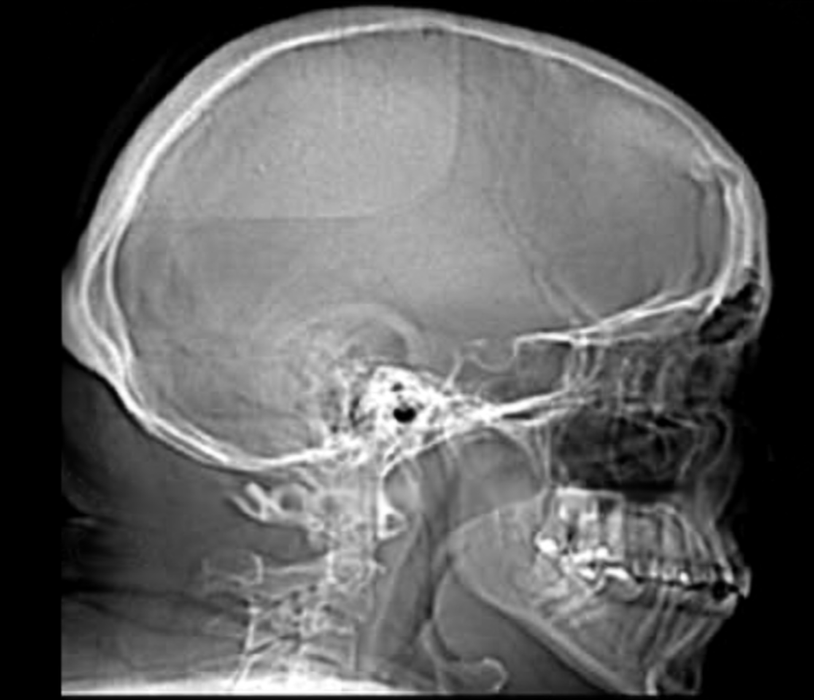
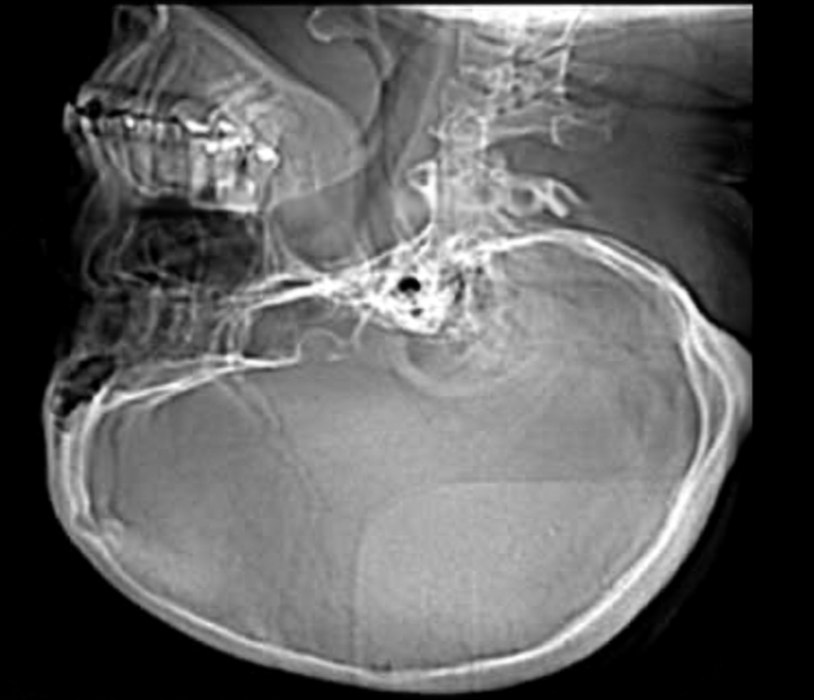
Topograma horizontal correto (vértice à esquerda, anti-horário; anatomia confirmada), direções/MOVER remapeados, relatório só por botão, contador de aquisição destacado, quiz removido

diff --git a/script.js b/script.js
@@ -2150,7 +2150,7 @@
     if (!box || !img || !slider || !startBtn) return;
 
     var BASE = "assets/volumes/cranio/";
-    var REV = "20260712c"; // bump ao trocar assets — quebra cache do GitHub Pages
+    var REV = "20260712d"; // bump ao trocar assets — quebra cache do GitHub Pages
     function bust(path) { return BASE + path + (path.indexOf("?") < 0 ? "?v=" + REV : "&v=" + REV); }
     var manifest = null;
     var loaded = false;
@@ -2166,12 +2166,14 @@
     var ROT_S = 1.0;         // tempo de rotação do gantry (s/volta) no helicoidal
 
     // Caixa de planejamento (%). Zonas-alvo recalibradas para o topograma
-    // HORIZONTAL (decúbito dorsal: face p/ CIMA, vértice à DIREITA, base à
-    // esquerda). Faixa CC = linhas verticais (left/right); FOV A-P =
-    // horizontais (top/bottom). Didáticas — validação clínica do usuário.
-    var DEFAULT_BOX = { top: 6, bottom: 58, left: 34, right: 93 };
-    var boxState = { top: 6, bottom: 58, left: 34, right: 93 };
-    var TARGET = { top: [0, 16], bottom: [46, 70], left: [24, 44], right: [82, 98] };
+    // HORIZONTAL correto (decúbito dorsal: face p/ CIMA, VÉRTICE à ESQUERDA,
+    // base à direita — rotação anti-horária do original, confirmada pela
+    // posição dos dentes/mandíbula). Faixa CC = linhas verticais
+    // (esquerda=vértice, direita=base); FOV A-P = horizontais.
+    // Didáticas — validação clínica do usuário.
+    var DEFAULT_BOX = { top: 42, bottom: 94, left: 7, right: 66 };
+    var boxState = { top: 42, bottom: 94, left: 7, right: 66 };
+    var TARGET = { top: [30, 54], bottom: [84, 100], left: [2, 18], right: [56, 76] };
     var MIN_GAP = 6; // % mínimo entre linhas opostas
     var lastSlice = 0; // último corte pintado na aquisição (p/ review)
     var lastAcq = null; // parâmetros da última aquisição (p/ relatório)
@@ -2189,17 +2191,19 @@
     var isMoving = false; // MOVER em andamento
 
     // Posição (m) da mesa correspondente ao INÍCIO da faixa planejada.
-    // Mapa imagem→mesa: fração x da imagem (0=esquerda/base, 1=direita/
-    // vértice); caudo-cranial varre esquerda→direita com a mesa saindo;
-    // crânio-caudal varre direita→esquerda com a mesa entrando.
+    // Mapa imagem→mesa: fração x da imagem (0=esquerda/VÉRTICE, 1=direita/
+    // base). Caudo-cranial: mesa SAI, varredura base→vértice (imagem revela
+    // direita→esquerda; f = 1−k). Crânio-caudal: mesa ENTRA, vértice→base
+    // (f = k). O início da faixa é a extremidade correspondente.
     function volumeStartZ() {
       if (!topoRef) return null;
       var L = TOPO_LEN_MM / 1000;
       if (topoRef.dir === "craniocaudal") {
-        var k0 = 1 - (boxState.right / 100); // progresso até o vértice planejado
+        var k0 = boxState.left / 100;             // até o vértice planejado
         return topoRef.startZ - L * k0;
       }
-      return topoRef.startZ + L * (boxState.left / 100); // até a base planejada
+      var k0c = 1 - (boxState.right / 100);       // até a base planejada
+      return topoRef.startZ + L * k0c;
     }
 
     // Ajusta o topograma para caber no quadrante preservando a proporção
@@ -2321,9 +2325,9 @@
     function inZone(v, z) { return v >= z[0] && v <= z[1]; }
     function problems() {
       var p = [];
-      if (boxState.right - boxState.left < MIN_GAP) p.push("A faixa está invertida ou muito estreita (base à esquerda, vértice à direita).");
-      else if (!inZone(boxState.left, TARGET.left)) p.push("Leve o limite esquerdo até a base do crânio.");
-      else if (!inZone(boxState.right, TARGET.right)) p.push("Leve o limite direito até o vértice.");
+      if (boxState.right - boxState.left < MIN_GAP) p.push("A faixa está invertida ou muito estreita (vértice à esquerda, base à direita).");
+      else if (!inZone(boxState.left, TARGET.left)) p.push("Leve o limite esquerdo até o vértice.");
+      else if (!inZone(boxState.right, TARGET.right)) p.push("Leve o limite direito até a base do crânio.");
       if (boxState.bottom - boxState.top < MIN_GAP) p.push("O FOV está invertido ou muito estreito.");
       else if (!inZone(boxState.top, TARGET.top) || !inZone(boxState.bottom, TARGET.bottom)) p.push("Ajuste o FOV para cobrir o crânio (anterior/posterior).");
       return p;
@@ -2403,6 +2407,7 @@
     }
     function toIdle() {
       phase = "idle"; loaded = false; lastSlice = 0; lastAcq = null;
+      if (ctrl) ctrl.classList.remove("is-acquiring");
       announcePhase("idle");
       topoRef = null; atStart = false; isMoving = false;
       stopAnimations();
@@ -2422,15 +2427,16 @@
 
     // Topograma com física real: tubo ESTACIONÁRIO, a MESA translada o
     // paciente pelo gantry e a imagem se revela linha a linha em sincronia
-    // com a posição real da mesa 3D. A direção vem do protocolo:
-    //   caudo-cranial → mesa SAI (revela da base, à esquerda, p/ o vértice)
-    //   crânio-caudal → mesa ENTRA (revela do vértice, à direita, p/ a base)
+    // com a posição real da mesa 3D. Orientação: VÉRTICE à esquerda, base
+    // à direita. Direção do protocolo:
+    //   caudo-cranial → mesa SAI (revela da base, à DIREITA, p/ o vértice)
+    //   crânio-caudal → mesa ENTRA (revela do vértice, à ESQUERDA, p/ a base)
     function setTopoClip(k) {
       var pct = ((1 - k) * 100).toFixed(2);
       var pp = protocolParams();
       topoImg.style.clipPath = (pp.direcao === "craniocaudal")
-        ? "inset(0 0 0 " + pct + "%)"
-        : "inset(0 " + pct + "% 0 0)";
+        ? "inset(0 " + pct + "% 0 0)"
+        : "inset(0 0 0 " + pct + "%)";
     }
     function toTopoAcq() {
       phase = "topoAcq";
@@ -2490,6 +2496,7 @@
 
     function toPlan(keepBox) {
       phase = "plan";
+      if (ctrl) ctrl.classList.remove("is-acquiring");
       announcePhase("plan");
       topoImg.style.clipPath = "";
       if (topoBox) topoBox.hidden = false;
@@ -2623,9 +2630,10 @@
         lastSlice = n;
         img.src = srcFor(n);
         slider.value = n;
-        counter.textContent = "Adquirindo… corte " + (idx + 1) + " / " + total +
+        counter.textContent = "ADQUIRINDO — corte " + (idx + 1) + " / " + total +
           " · mesa a " + Math.round(speed) + " mm/s";
       }
+      if (ctrl) ctrl.classList.add("is-acquiring");
       paintProg(0);
       soundStart("vol", ROT_S);
       if (tableDriveApi) {
@@ -2665,10 +2673,13 @@
 
     function toReview() {
       phase = "review";
+      if (ctrl) ctrl.classList.remove("is-acquiring");
       announcePhase("review");
       buildReport();
-      if (reportEl) reportEl.hidden = false;
-      if (reportBtn) reportBtn.hidden = false; loaded = true;
+      // O relatório NÃO cobre a imagem automaticamente — foco no exame;
+      // fica disponível no botão destacado.
+      if (reportEl) reportEl.hidden = true;
+      if (reportBtn) { reportBtn.hidden = false; reportBtn.classList.add("ws-btn--primary"); } loaded = true;
       slider.disabled = false;
       startBtn.disabled = true; startBtn.textContent = "Exame adquirido";
       if (stopBtn) stopBtn.disabled = false;
@@ -2754,30 +2765,6 @@
       if (!reportEl) return;
       if (reportEl.hidden) buildReport();
       reportEl.hidden = !reportEl.hidden;
-    });
-    var quizBtn = document.getElementById("ws-quiz-check");
-    var quizRes = document.getElementById("ws-quiz-result");
-    if (quizBtn) quizBtn.addEventListener("click", function () {
-      var hits = 0, answered = 0;
-      ["q1", "q2", "q3"].forEach(function (q) {
-        var inputs = document.querySelectorAll('input[name="' + q + '"]');
-        Array.prototype.forEach.call(inputs, function (inp) {
-          var lab = inp.closest ? inp.closest("label") : null;
-          if (lab) lab.classList.remove("q-ok", "q-bad");
-        });
-        Array.prototype.forEach.call(inputs, function (inp) {
-          var lab = inp.closest ? inp.closest("label") : null;
-          if (inp.checked) {
-            answered++;
-            var ok = inp.hasAttribute("data-ok");
-            if (ok) hits++;
-            if (lab) lab.classList.add(ok ? "q-ok" : "q-bad");
-          } else if (inp.hasAttribute("data-ok") && lab) {
-            lab.classList.add("q-ok"); // mostra a correta
-          }
-        });
-      });
-      if (quizRes) quizRes.textContent = answered === 0 ? "Responda antes de corrigir." : hits + " / 3 corretas";
     });
     topoImg.addEventListener("load", fitTopo);
     window.addEventListener("resize", fitTopo);

diff --git a/index.html b/index.html
@@ -170,8 +170,8 @@
               <div class="ws-topo__rect" id="ws-topo-rect"></div>
               <div class="ws-topo__line ws-topo__line--h ws-topo__line--fov" id="ws-topo-top" data-edge="top" title="FOV — limite anterior"></div>
               <div class="ws-topo__line ws-topo__line--h ws-topo__line--fov" id="ws-topo-bottom" data-edge="bottom" title="FOV — limite posterior"></div>
-              <div class="ws-topo__line ws-topo__line--v ws-topo__line--range" id="ws-topo-left" data-edge="left" title="Limite da faixa — base do crânio"></div>
-              <div class="ws-topo__line ws-topo__line--v ws-topo__line--range" id="ws-topo-right" data-edge="right" title="Limite da faixa — vértice"></div>
+              <div class="ws-topo__line ws-topo__line--v ws-topo__line--range" id="ws-topo-left" data-edge="left" title="Limite da faixa — vértice"></div>
+              <div class="ws-topo__line ws-topo__line--v ws-topo__line--range" id="ws-topo-right" data-edge="right" title="Limite da faixa — base do crânio"></div>
             </div>
           </div>
           <span class="ws-viewer__placeholder" id="ws-viewer-placeholder">Exame não iniciado</span>
@@ -184,25 +184,7 @@
           <div class="ws-report" id="ws-report" hidden>
             <h3 class="ws-report__title">Relatório do exame — didático</h3>
             <div class="ws-report__body" id="ws-report-body"></div>
-            <div class="ws-quiz" id="ws-quiz">
-              <h4 class="ws-quiz__title">Fixação rápida</h4>
-              <ol class="ws-quiz__list">
-                <li>Laser posicionado no queixo para exame de crânio — qual direção programar?
-                  <label><input type="radio" name="q1" value="a"> Crânio-caudal (mesa entra)</label>
-                  <label><input type="radio" name="q1" value="b" data-ok="1"> Caudo-cranial (mesa sai)</label>
-                </li>
-                <li>Durante o topograma (scout), o que se move?
-                  <label><input type="radio" name="q2" value="a" data-ok="1"> A mesa translada o paciente; o tubo fica estacionário</label>
-                  <label><input type="radio" name="q2" value="b"> O gantry gira com a mesa parada</label>
-                </li>
-                <li>No modo helicoidal, a velocidade da mesa é:
-                  <label><input type="radio" name="q3" value="a"> kV × mAs</label>
-                  <label><input type="radio" name="q3" value="b" data-ok="1"> pitch × colimação ÷ tempo de rotação</label>
-                </li>
-              </ol>
-              <div class="ws-actions"><button class="ws-btn" id="ws-quiz-check" type="button">Corrigir</button><span class="ws-quiz__result" id="ws-quiz-result"></span></div>
-            </div>
-            <div class="ws-actions"><button class="ws-btn ws-btn--primary" id="ws-report-close" type="button">Ver cortes</button></div>
+                        <div class="ws-actions"><button class="ws-btn ws-btn--primary" id="ws-report-close" type="button">Ver cortes</button></div>
           </div>
 
           <div class="ws-overlay ws-overlay--top" aria-label="Paciente em exame">

diff --git a/css/style.css b/css/style.css
@@ -1216,3 +1216,11 @@ body.is-mobile.mob-aq #pane-acq .ws-viewer--full { min-height: 62vh; }
   pointer-events: none;
 }
 .acq3d[hidden] { display: none !important; }
+
+/* Contador em destaque durante a aquisição do volume */
+.ws-viewer-ctrl.is-acquiring .ws-slice-counter {
+  font-size: 0.95rem; font-weight: 700; color: var(--accent-cyan);
+  text-shadow: 0 1px 4px rgba(0, 0, 0, 0.9);
+  animation: acq-pulse 1s ease-in-out infinite;
+}
+@keyframes acq-pulse { 50% { opacity: 0.55; } }

diff --git a/README.md b/README.md
@@ -108,6 +108,19 @@ etapa futura)
   no desktop-console e também no celular (aba Exame), o viewport 3D é
   reparentado para o PiP e acompanha a mesa antes/durante/depois do scan.
 
+**Aquisição — orientação correta + foco no exame (revisão 2026-07e)**
+- Topograma horizontal CORRIGIDO: inspeção anatômica (dentes/mandíbula)
+  mostrou que no original a face está à DIREITA — a rotação certa é a
+  ANTI-horária: decúbito dorsal com VÉRTICE à esquerda e base à direita.
+  Geometria toda remapeada (zonas-alvo, revelação por direção, MOVER) e
+  REV de assets bumpado (recarregar sem cache uma vez).
+- Volume: o fluxo estava correto — o defeito era de percepção (varredura
+  de ~4 s com primeiros cortes quase pretos e o relatório abrindo por
+  cima ao final). Agora o relatório NÃO abre sozinho (botão "Relatório"
+  destacado na revisão) e o contador de aquisição ganhou destaque pulsante.
+- Quiz removido por ora (pedido do usuário — foco no exame). O código do
+  relatório permanece.
+
 **Correções mobile — aquisição (revisão 2026-07d)**
 - Cache do topograma quebrado (REV bump): a versão HORIZONTAL passa a
   carregar de fato no celular (o arquivo vertical antigo ficava em cache).